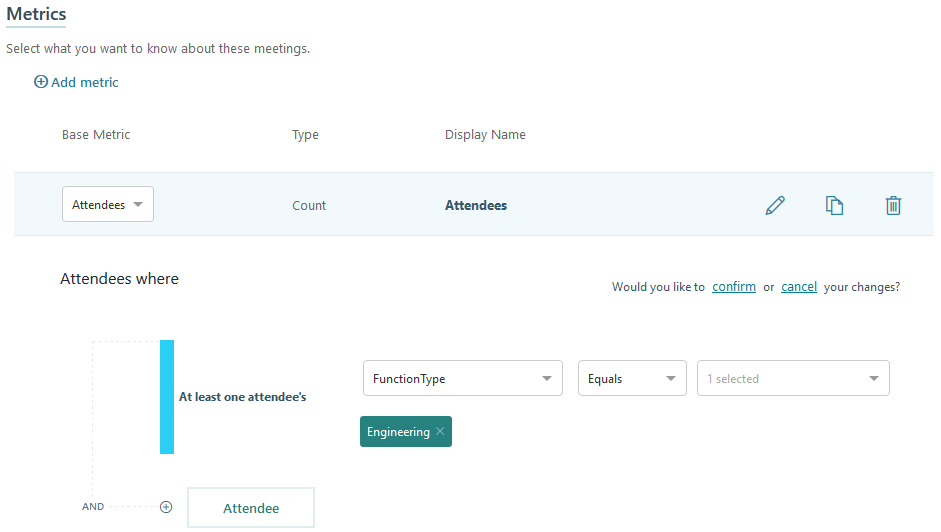
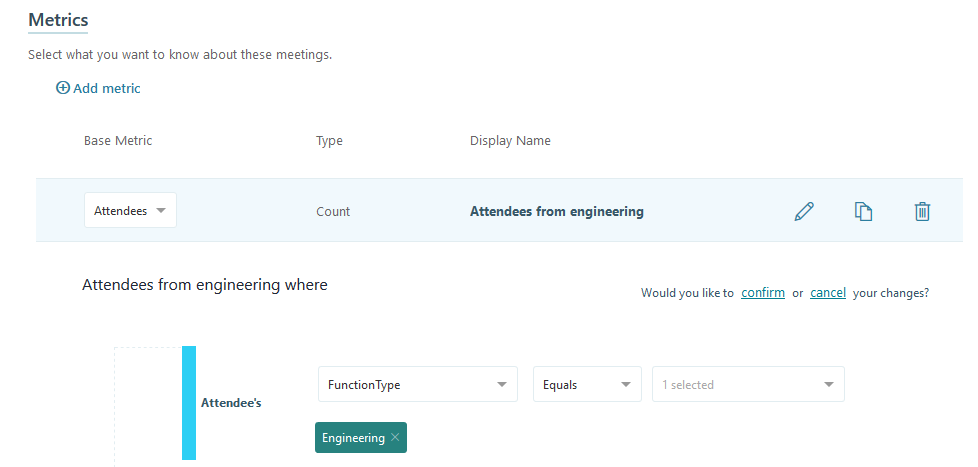
Meeting query screenshot update
Updated the meeting query screenshot to reflect the newly updated field name for the Attendees meeting metric filter.

diff --git a/WorkplaceAnalytics/Tutorials/Meeting-queries.md b/WorkplaceAnalytics/Tutorials/Meeting-queries.md
@@ -52,7 +52,7 @@ You can also limit the query based on organizer, attendee, and invitee attribute
 
 ## Add metrics
 
-You can add base metrics to customize your meeting data. For example, select the Attendees metric to include the total number of people that attended meetings. You can add a metric filter to further customize the data. For example, the following will only show meetings with attendees from the engineering group.
+You can add base metrics to customize your meeting data. For example, select the Attendees metric to include the total number of people that attended meetings. You can add a metric filter to further customize the data. For example, the following metric filter will only show meetings that included attendees from the engineering group.
 
 ![Meeting query metric](../Images/WpA/Tutorials/meeting-metric.png)
 
